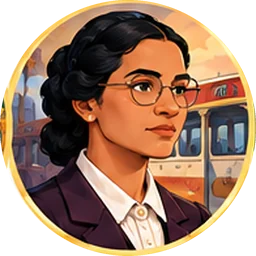
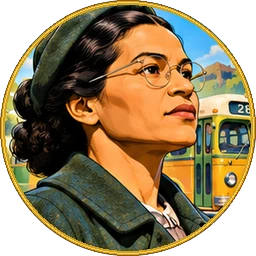
Últimos 10 personagens do catálogo e Rosa Parks corrigida
- Básicos: Sócrates, Hipátia, Carlos Magno, Avicena, Gengis Khan, Martinho Lutero, José de San Martín, Emmeline Pankhurst
- Lendários: Tereza de Benguela e Murasaki Shikibu
- Rosa Parks com novo desenho (o anterior tinha pele clara)

Claude-Session: https://claude.ai/code/session_01THMXhoVTbCVSR4pz1raMih

diff --git a/src/lib/personagens.ts b/src/lib/personagens.ts
@@ -138,6 +138,20 @@ const TODOS: Personagem[] = [
   { nome: "Harriet Tubman", epoca: "EUA, abolição", imagem: "/personagens/harriet-tubman.webp" },
   { nome: "Carolina Maria de Jesus", epoca: "Literatura, Brasil", imagem: "/personagens/carolina-maria-de-jesus.webp" },
   { nome: "Nelson Mandela", epoca: "África do Sul, séc. XX", imagem: "/personagens/nelson-mandela.webp" },
+  { nome: "Sócrates", epoca: "Grécia Antiga", imagem: "/personagens/socrates.webp" },
+  { nome: "Hipátia", epoca: "Alexandria, séc. IV–V", imagem: "/personagens/hipatia.webp" },
+  { nome: "Carlos Magno", epoca: "Império Carolíngio, séc. VIII–IX", imagem: "/personagens/carlos-magno.webp" },
+  { nome: "Avicena", epoca: "Pérsia, séc. X–XI", imagem: "/personagens/avicena.webp" },
+  { nome: "Gengis Khan", epoca: "Mongólia, séc. XIII", imagem: "/personagens/gengis-khan.webp" },
+  { nome: "Martinho Lutero", epoca: "Alemanha, séc. XVI", imagem: "/personagens/martinho-lutero.webp" },
+  { nome: "José de San Martín", epoca: "América do Sul, séc. XIX", imagem: "/personagens/jose-de-san-martin.webp" },
+  { nome: "Emmeline Pankhurst", epoca: "Inglaterra, séc. XIX–XX", imagem: "/personagens/emmeline-pankhurst.webp" },
+  {
+    nome: "Tereza de Benguela",
+    epoca: "Quilombo do Quariterê, séc. XVIII",
+    imagem: "/personagens/tereza-de-benguela.webp",
+  },
+  { nome: "Murasaki Shikibu", epoca: "Japão, séc. XI", imagem: "/personagens/murasaki-shikibu.webp" },
 ];
 
 const porNome = (nomes: string[]) =>
@@ -285,6 +299,16 @@ export const PERSONAGENS = porNome([
   "Harriet Tubman",
   "Carolina Maria de Jesus",
   "Nelson Mandela",
+  "Sócrates",
+  "Hipátia",
+  "Carlos Magno",
+  "Avicena",
+  "Gengis Khan",
+  "Martinho Lutero",
+  "José de San Martín",
+  "Emmeline Pankhurst",
+  "Tereza de Benguela",
+  "Murasaki Shikibu",
 ]);
 export const TOTAL_PERSONAGENS = PERSONAGENS.length;
 
@@ -314,6 +338,8 @@ export const ORDEM_ESPECIAIS = [
   "Harriet Tubman",
   "Carolina Maria de Jesus",
   "Nelson Mandela",
+  "Tereza de Benguela",
+  "Murasaki Shikibu",
 ].map(indice);
 
 /** Básicos acrescentados depois (índices 45 em diante), na ordem da tela. */
@@ -393,6 +419,14 @@ const BASICOS_NOVOS = [
   "Desmond Tutu",
   "Ayrton Senna",
   "Steve Jobs",
+  "Sócrates",
+  "Hipátia",
+  "Carlos Magno",
+  "Avicena",
+  "Gengis Khan",
+  "Martinho Lutero",
+  "José de San Martín",
+  "Emmeline Pankhurst",
 ].map(indice);
 
 /**

diff --git a/src/lib/personagens-curiosidades.ts b/src/lib/personagens-curiosidades.ts
@@ -205,4 +205,22 @@ export const CURIOSIDADE_PERSONAGEM: Record<string, string> = {
     'Carolina Maria de Jesus escrevia em cadernos achados no lixo. "Quarto de Despejo", de 1960, foi traduzido para mais de 10 línguas.',
   "Nelson Mandela":
     "Nelson Mandela passou 27 anos preso por lutar contra o apartheid e depois foi eleito o primeiro presidente negro da África do Sul.",
+  Sócrates: "Sócrates não deixou nada escrito: conhecemos suas ideias pelos textos de seu aluno Platão.",
+  Hipátia:
+    "Hipátia de Alexandria foi matemática, astrônoma e filósofa, uma das primeiras mulheres cientistas de que se tem registro.",
+  "Carlos Magno":
+    "Carlos Magno foi coroado imperador pelo papa no Natal do ano 800 e incentivou escolas e a cópia de livros.",
+  Avicena:
+    'O "Cânone da Medicina", escrito por Avicena, foi usado como livro-texto nas universidades da Europa por séculos.',
+  "Gengis Khan": "Gengis Khan uniu as tribos mongóis e fundou o maior império de terras contínuas da história.",
+  "Martinho Lutero":
+    "Em 1517, Martinho Lutero publicou suas 95 teses contra a venda de indulgências, o começo da Reforma Protestante.",
+  "José de San Martín":
+    "José de San Martín atravessou a Cordilheira dos Andes com seu exército para lutar pela independência do Chile e do Peru.",
+  "Emmeline Pankhurst":
+    "Emmeline Pankhurst liderou as sufragistas britânicas na luta pelo direito das mulheres ao voto.",
+  "Tereza de Benguela":
+    "Tereza de Benguela liderou o Quilombo do Quariterê, em Mato Grosso, e o dia 25 de julho é o Dia Nacional de Tereza de Benguela e da Mulher Negra.",
+  "Murasaki Shikibu":
+    'Murasaki Shikibu escreveu "O Conto de Genji", considerado por muitos o primeiro romance da história.',
 };

diff --git a/src/lib/__tests__/personagens.test.ts b/src/lib/__tests__/personagens.test.ts
@@ -4,11 +4,11 @@ import { describe, expect, it } from "vitest";
 import { BASICOS, medalhasNecessarias, ORDEM_ESPECIAIS, PERSONAGENS, TOTAL_PERSONAGENS } from "../personagens";
 
 describe("personagens", () => {
-  it("tem 105 básicos e 22 especiais, sem repetição", () => {
-    expect(TOTAL_PERSONAGENS).toBe(127);
-    expect(new Set(PERSONAGENS.map((p) => p.nome)).size).toBe(127);
-    expect(new Set(BASICOS).size).toBe(105);
-    expect(new Set(ORDEM_ESPECIAIS).size).toBe(22);
+  it("tem 113 básicos e 24 especiais, sem repetição", () => {
+    expect(TOTAL_PERSONAGENS).toBe(137);
+    expect(new Set(PERSONAGENS.map((p) => p.nome)).size).toBe(137);
+    expect(new Set(BASICOS).size).toBe(113);
+    expect(new Set(ORDEM_ESPECIAIS).size).toBe(24);
     expect(ORDEM_ESPECIAIS).not.toContain(-1);
     expect([...BASICOS, ...ORDEM_ESPECIAIS].sort((a, b) => a - b)).toEqual(PERSONAGENS.map((_, i) => i));
   });
@@ -47,10 +47,10 @@ describe("desbloqueio dos personagens", async () => {
   it("começa com 10 básicos e libera 3 por nível até todos", () => {
     expect(INICIAIS).toHaveLength(10);
     expect(INICIAIS).not.toContain(-1);
-    expect(new Set(ORDEM_BASICOS).size).toBe(105);
+    expect(new Set(ORDEM_BASICOS).size).toBe(113);
     expect(ORDEM_BASICOS.filter((i) => nivelNecessario(i) === 1)).toHaveLength(10);
     expect(ORDEM_BASICOS.filter((i) => nivelNecessario(i) === 2)).toHaveLength(3);
-    expect(Math.max(...ORDEM_BASICOS.map(nivelNecessario))).toBe(33);
+    expect(Math.max(...ORDEM_BASICOS.map(nivelNecessario))).toBe(36);
   });
   it("lista inicial diversa: metade meninas e Antonieta de Barros no lugar da Baiana", () => {
     const nomes = INICIAIS.map((i) => PERSONAGENS[i].nome);
